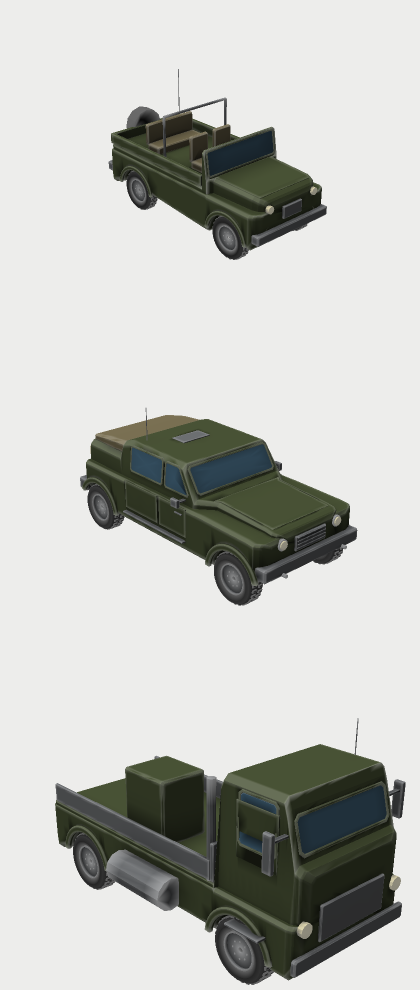
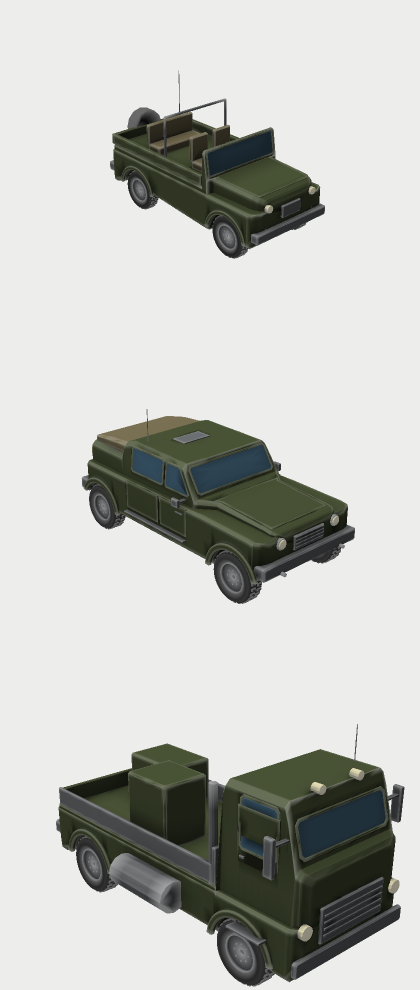
geometry: the hauler gets its rear bumper, tailgate, grille slats and second load back
The hauler was trimmed to fit the old 40k triangle limit (38.3k). With the
owner's 50k it takes back the rear bumper (a fitting beyond the tail face),
the tailgate on the end of the deck, four grille slats, roof lamps, door
handles and a second crate: 44.4k triangles. Only the hauler's golden hash
changes; the silhouette differences stay clear (48, 56 and 76 per cent).
Pictures regenerated.

Claude-Session: https://claude.ai/code/session_01Wrh5HHcDHQFnFuNE1iqJNv

diff --git a/docs/lanes/geometry/design-note.md b/docs/lanes/geometry/design-note.md
@@ -78,5 +78,5 @@ FORGE's game garage has three wheeled trucks (`scout_4x4`, `mule_4x4`, `hauler_4
 - **A family is a template, a skin is a family plus numbers.** `truck::TruckKind` selects the template (`shapes/<id>.ron`: a lines plan and a part list for the same shell-and-anchors machinery) and the same hull module, wheel modules and export do the rest, so the joint layout is shared by construction (a test compares the exported joints of every skin with the utility truck's). `skin::Skin` is a family with its dimensions and axles (`Skin::for_id` from stand-in files `placeholder_<id>.ron`, `PROVISIONAL(C-002)`; `Skin::from_def(&VehicleDef)` from FORGE's definition: the hull box, the axle positions from the front, the track and the tyre are the definition's, the rim and lugs are the stand-in wheel's proportions at that radius). A test reads `content/vehicles/game/<id>.ron` and checks that the stand-in numbers and the generated parts agree with it (wheel diameter, track, wheelbase, clearance, box), so the picture cannot drift from the physics rig.
 - **The datum is FORGE's.** The hull box sits `ground_clearance_m` above the ground and `ride_height_m = clearance + height / 2` (`w5k_forge::compile`); a skin built from a definition uses the definition's `height_m` as the box above the underside. The axles are at the definition's `from_front_m` (not symmetric about the centre: the scout's are 0.65 m and 0.85 m from the ends).
 - **Scout** (`scout_4x4.ron`): 3.70 x 1.65 m, box 1.55 m above a 0.30 m clearance, 0.70 m tyres, wheelbase 2.20 m, track 1.35 m. A fictional light reconnaissance car in the jeep and Land-Rover class: a low shell with a raised hood, a thin steeply raked windscreen slab, an open tub (the walls, two seats, a bench, a roll bar and a spare wheel stand on the deck), so from the side and from above it is a low runabout with no cab. The roll bar is structure, not a fitting: it is the highest part of the box. 28.9k of 50k triangles (the wheeled budget the owner set on 2026-10-10).
-- **Hauler** (`hauler_4x4.ron`): 6.00 x 2.45 m, box 2.60 m above a 0.45 m clearance (3.05 m to the roof), 1.05 m tyres, wheelbase 3.80 m, track 2.05 m. A fictional heavy cargo truck of the 5 to 7 t class: a tall, flat-faced cab-over (steeply raked windscreen, big grille, mirrors on arms, a heavy front bumper) over the front axle and a long, low, flat bed behind it (headboard, side boards, a load, an exhaust stack, fuel tanks; the tail is open), so from the side it is two boxes of very different heights. 38.3k of 50k triangles. It was cut against the old 40k limit (the first cut was 45.2k), so the rear bumper and tailgate were dropped (the shell runs the full length), the grille slats, roof lamps, door handles and one load were removed, and the lug count of a skin built from a definition is capped at the stand-in wheel's.
-- **Silhouettes.** `the_three_skins_have_clearly_different_silhouettes_and_sizes_so_they_read_at_a_distance` renders the side view of each skin at one scale (20 px per metre, ground on one row) and requires that at least 30% of the union of two silhouettes differs (scout and utility 48%, utility and hauler 54%, scout and hauler 75%), that lengths differ by more than 15% and tyre radii by more than 10%: the garage cannot converge by accident.
+- **Hauler** (`hauler_4x4.ron`): 6.00 x 2.45 m, box 2.60 m above a 0.45 m clearance (3.05 m to the roof), 1.05 m tyres, wheelbase 3.80 m, track 2.05 m. A fictional heavy cargo truck of the 5 to 7 t class: a tall, flat-faced cab-over (steeply raked windscreen, big grille, mirrors on arms, a heavy front bumper) over the front axle and a long, low, flat bed behind it (headboard, side boards, a load, an exhaust stack, fuel tanks; the tail is open), so from the side it is two boxes of very different heights. 44.4k of 50k triangles. It was first cut against the old 40k limit (38.3k: the rear bumper and tailgate, the grille slats, roof lamps, door handles and a second load were left out), and went back with the owner's 50k; the rear bumper is a fitting beyond the shell's tail face (the shell runs the full length), the tailgate stands on the end of the deck between the side boards, and the lug count of a skin built from a definition is capped at the stand-in wheel's.
+- **Silhouettes.** `the_three_skins_have_clearly_different_silhouettes_and_sizes_so_they_read_at_a_distance` renders the side view of each skin at one scale (20 px per metre, ground on one row) and requires that at least 30% of the union of two silhouettes differs (scout and utility 48%, utility and hauler 56%, scout and hauler 76%), that lengths differ by more than 15% and tyre radii by more than 10%: the garage cannot converge by accident.

diff --git a/docs/swarm/status/geometry.md b/docs/swarm/status/geometry.md
@@ -16,7 +16,7 @@
 
 - Silhouette PR (this branch), owner feedback "improve the silhouette; the windows need to conform better; the front side window and the front top must line up": glass as panel + raised mitered frame on the leaning (tumblehome) walls; the front window's slanted edge is the windscreen ramp offset into the cab (test: both 57.8 degrees); steeper windscreen; approach and departure ramps (`yo`), sloped hood nose, tucked sill, sloped cover; lips end at the local underside; M998-class dimensions from the dossier and A10 for the HMMWV (`utility_4x4_dimensions_match_the_m998_dossier_within_3_percent`); `sweep_loop` and `chamfer_polygon` kernel functions; perspective-correct depth in the rasteriser (a picture-tool bug that made the shell speckle through glass). About 36k triangles of 40k. Pictures `media/truck-*-look.png`.
 
-- **Skins for the game garage (ARCH asked 2026-10-10, ahead of the weapons PRs).** `scout_4x4` (#79, merged): `TruckKind`, `skin::Skin` (stand-in dimensions or `from_def` of FORGE's VehicleDef), the scout template `shapes/scout_4x4.ron`; the joint layout is the utility truck's by construction and a test compares them; dimensions equal FORGE's (test reads `content/vehicles/game/scout_4x4.ron`); 28.9k of 50k triangles (the owner raised the wheeled budget from 40k to 50k on 2026-10-10; the geometry tests now assert 50k); golden `tests/golden/scout_4x4.hash` (new). `hauler_4x4` (#89, this branch): `shapes/hauler_4x4.ron`, tall cab-over and flat bed, 38.3k of 50k triangles (it was trimmed to fit the old 40k, so there is room to put the slats, tailgate and rear bumper back), golden `tests/golden/hauler_4x4.hash` (new), a silhouette test (the three skins differ by 48 to 75% of their silhouettes at one scale); API for VIEWER: `Skin::for_id("hauler_4x4")` or `Skin::from_def(&def)`, then `.parts(detail)`, then `render_rig`.
+- **Skins for the game garage (ARCH asked 2026-10-10, ahead of the weapons PRs).** `scout_4x4` (#79, merged): `TruckKind`, `skin::Skin` (stand-in dimensions or `from_def` of FORGE's VehicleDef), the scout template `shapes/scout_4x4.ron`; the joint layout is the utility truck's by construction and a test compares them; dimensions equal FORGE's (test reads `content/vehicles/game/scout_4x4.ron`); 28.9k of 50k triangles (the owner raised the wheeled budget from 40k to 50k on 2026-10-10; the geometry tests now assert 50k); golden `tests/golden/scout_4x4.hash` (new). `hauler_4x4` (#89, this branch): `shapes/hauler_4x4.ron`, tall cab-over and flat bed, 44.4k of 50k triangles (it was trimmed to fit the old 40k at 38.3k; the slats, tailgate, rear bumper, roof lamps, door handles and second load went back with the 50k budget, golden `tests/golden/hauler_4x4.hash` re-blessed), a silhouette test (the three skins differ by 48 to 76% of their silhouettes at one scale); API for VIEWER: `Skin::for_id("hauler_4x4")` or `Skin::from_def(&def)`, then `.parts(detail)`, then `render_rig`.
 
 ## In progress
 - **Owner goal (2026-10-10): a vehicle is a separate hull, separate propulsion, separate weapon mount and separate weapons** (the first truck was parametric but one monolith: audit in design note section 9). The modules series, one PR each, stacked:
